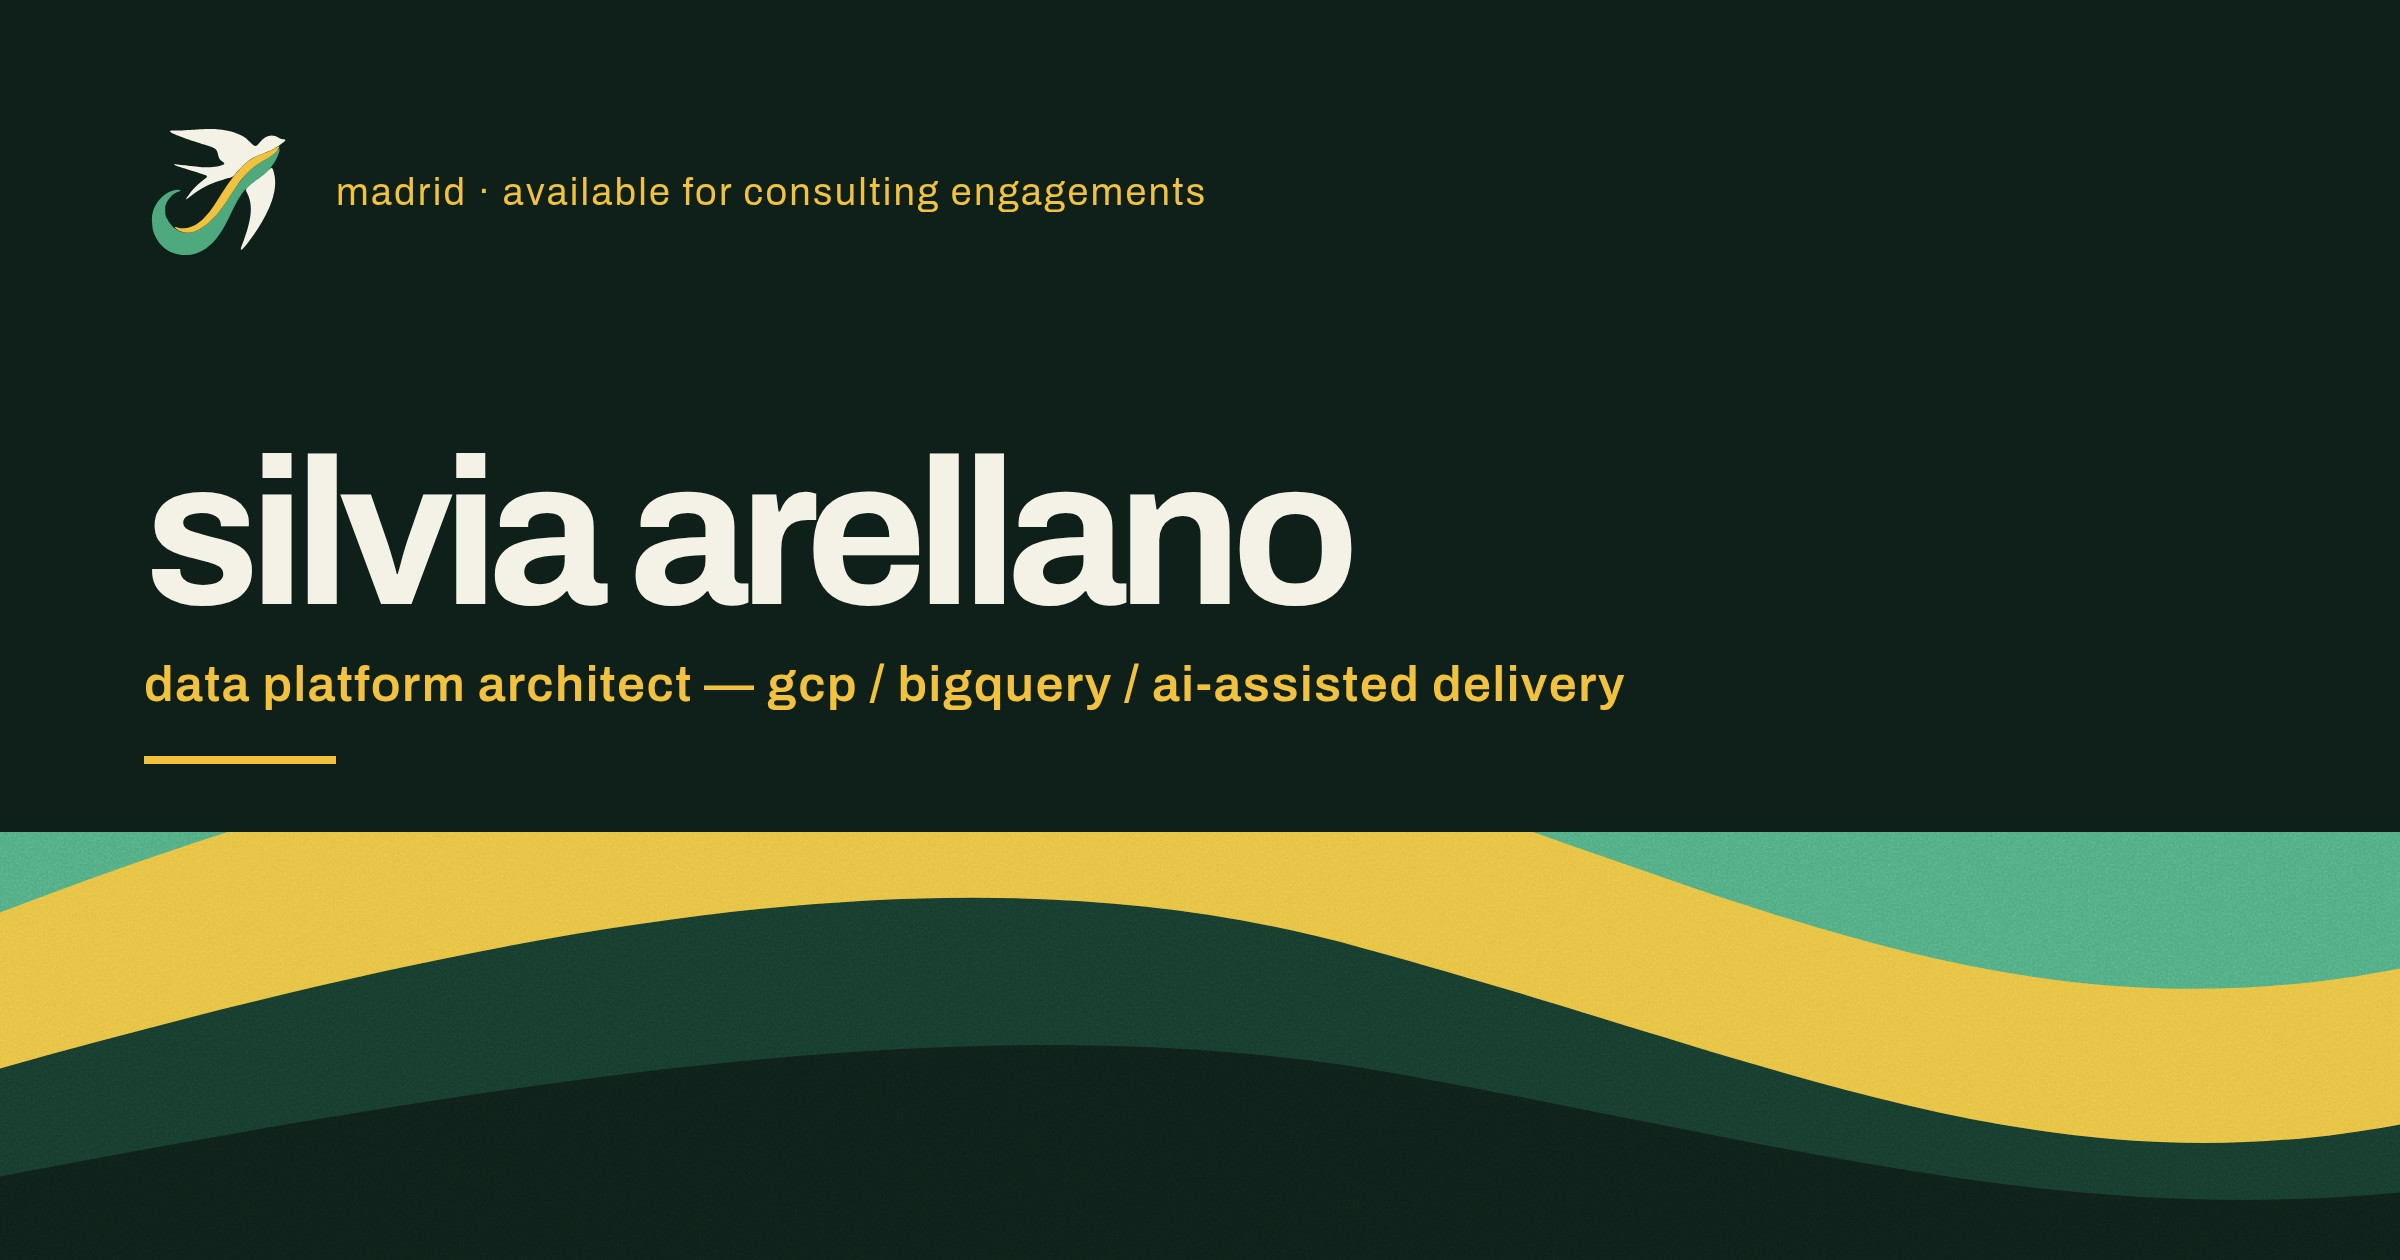
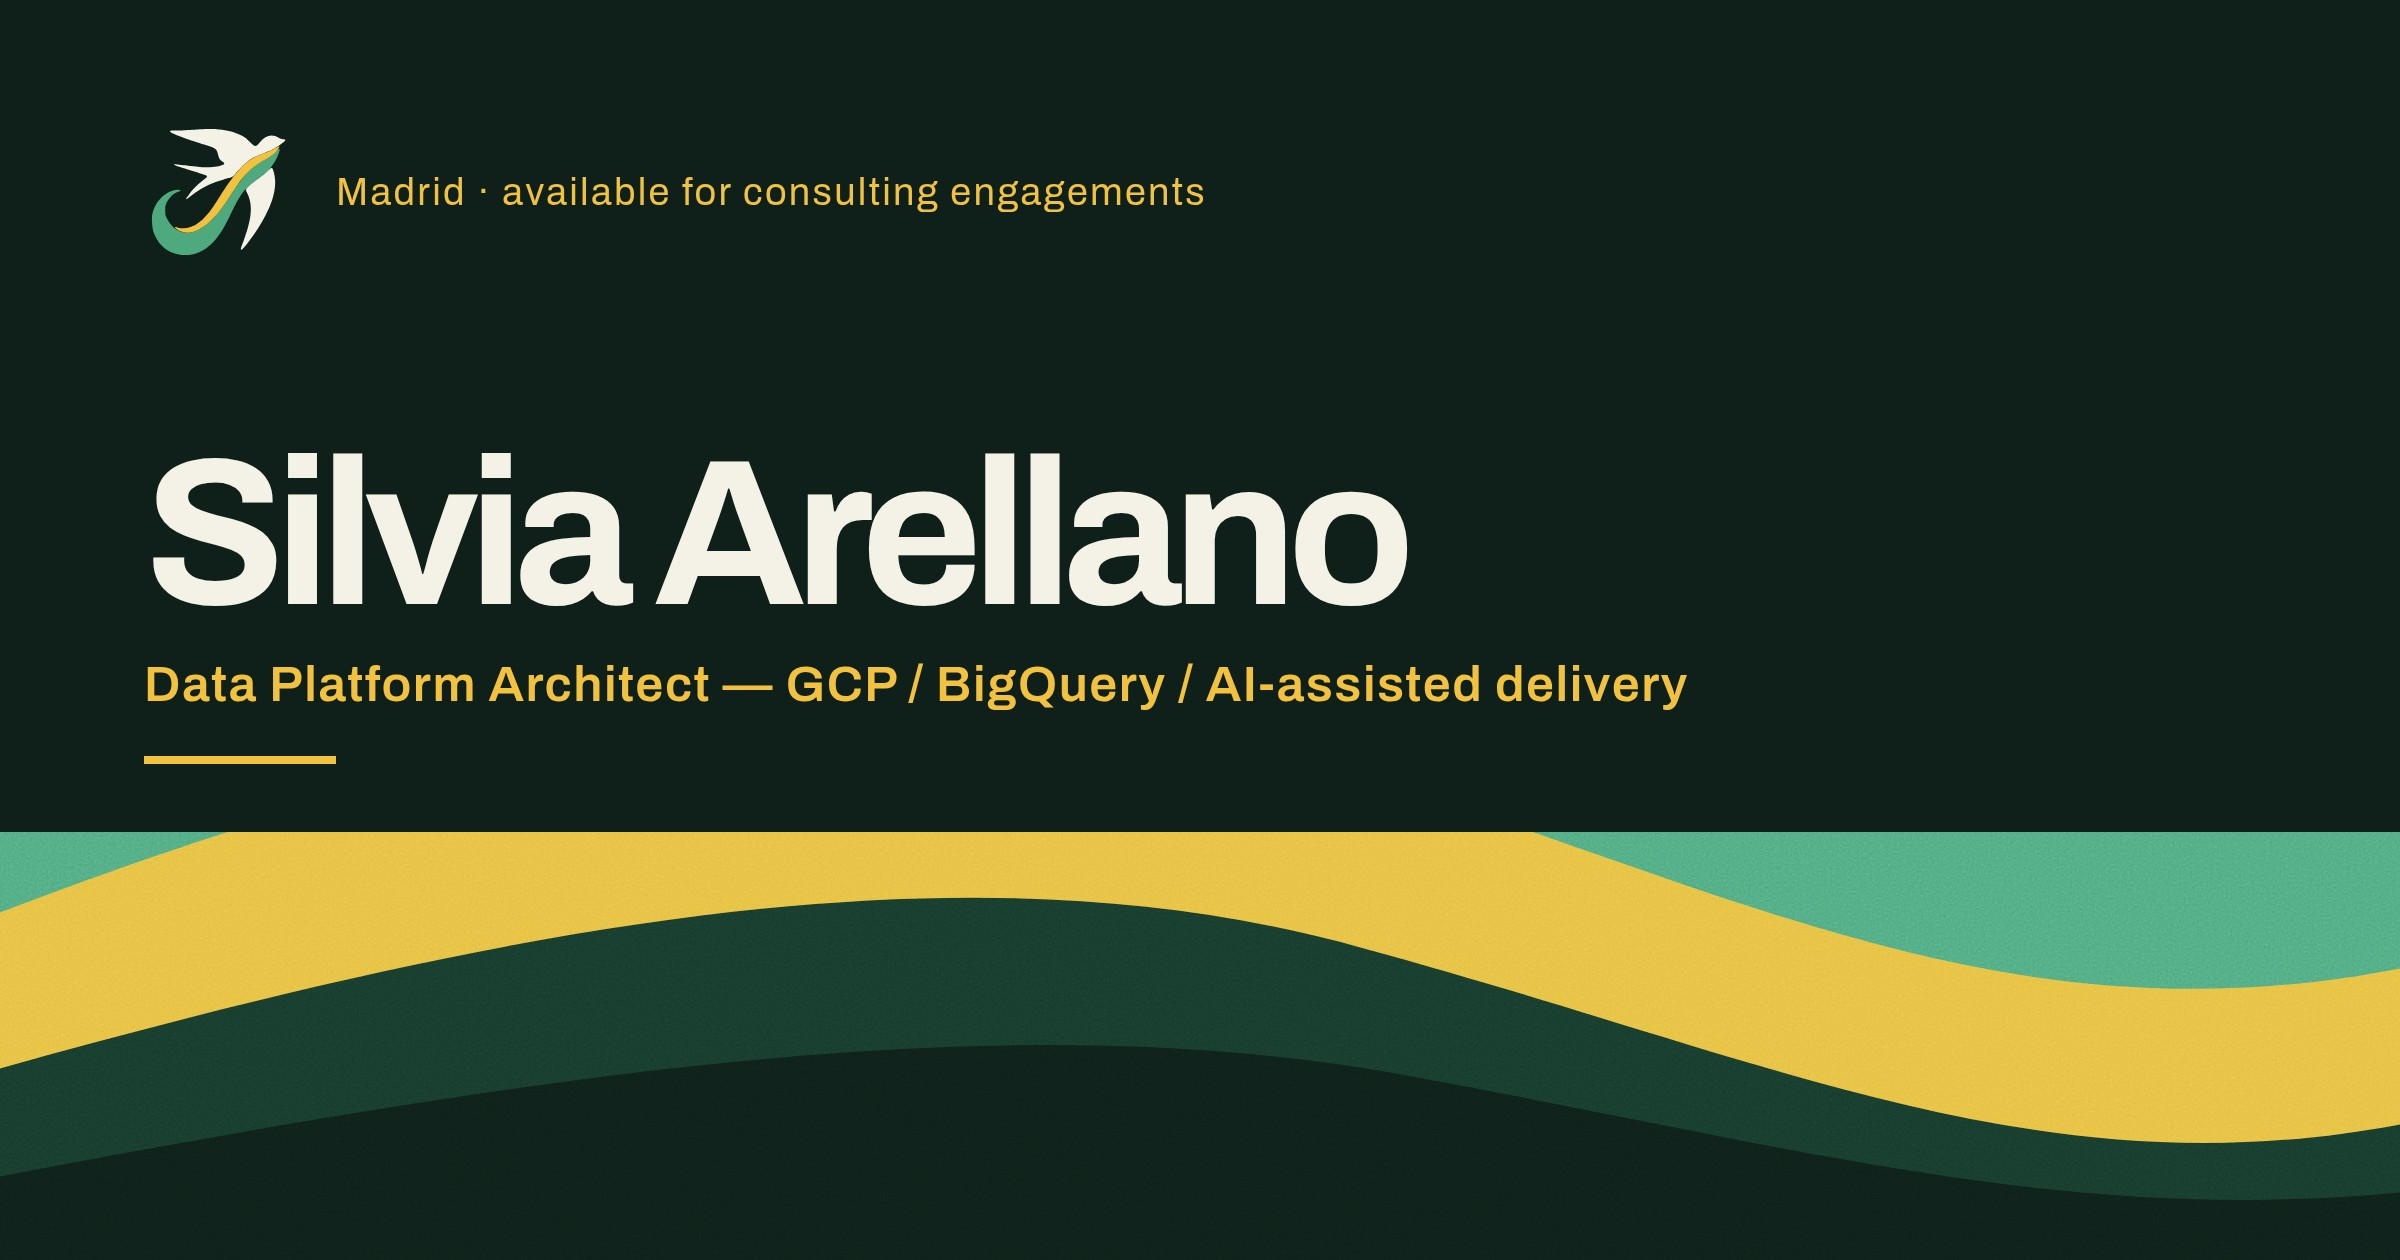
feat(brand): retire the all-lowercase treatment
Silvia retired the lowercase voice rule, so copy now renders in the case it
is authored in: "Silvia Arellano", "Data Platform Architect", "GCP",
"BigQuery", "OBEXDATA OÜ".

- Removed `body { text-transform: lowercase }` and the companion rule that
  handed the transform back to form controls, which the UA stylesheet resets.
- Re-rendered og-image.jpg with the same copy in title case.
- The swallow SVGs' <title> and aria-label now read "Silvia Arellano". Those
  are accessible names, not styled text, so the transform never covered them
  and they were genuinely lowercase in the file.

No source copy was rewritten — the transform was always presentational, so
removing it restores the case the components were already authored in.

Spec change: this reverses a MUST rule, so brand-specification.md is now
v1.1 with a dated amendment under §2 rather than a silent edit of Silvia's
original rule. Three stale spots elsewhere in that document are corrected
too: the §8 :root block still shipped the transform (copying it verbatim
would reintroduce it), the §9 checklist still said "write all copy
lowercase", and the §1/§2 first-person examples were written in the retired
style. §4's separate no-all-caps rule is untouched and still stands.

Verified: computed text-transform is `none` on every element of every route,
lint and build clean, 96/96 resume tests pass.

Claude-Session: https://claude.ai/code/session_01Bwp1k1w87rpA3nuR3tX5Vm

Changed region(s): [[0.0625, 0.3405, 0.5938, 0.4952], [0.0625, 0.5262, 0.7188, 0.5571], [0.125, 0.1238, 0.1562, 0.1548]]

diff --git a/src/assets/css/index.css b/src/assets/css/index.css
@@ -51,26 +51,16 @@
     @apply border-border;
   }
 
-  /* §8, copied verbatim from the specification. The lowercase transform is the
-     brand's voice rule (§2) — source copy keeps its authored case, only the
-     rendering is lowercased. */
+  /* §8, copied verbatim from the specification apart from its
+     text-transform. The brand book's §2 lowercase rule is deliberately not
+     applied: Silvia retired it, so copy renders in the case it is authored in.
+     Do not reintroduce `text-transform: lowercase` here. */
   body {
     background: var(--foam);
     color: var(--abyss);
     font-family: "Archivo", Helvetica, Arial, sans-serif;
     font-size: clamp(1rem, 0.95rem + 0.2vw, 1.0625rem);
     line-height: 1.55;
-    text-transform: lowercase;
-  }
-
-  /* Form controls reset text-transform in the UA stylesheet, so the §2 voice
-     rule has to be handed back to them explicitly. */
-  button,
-  input,
-  optgroup,
-  select,
-  textarea {
-    text-transform: inherit;
   }
 
   /* §4: display sizes carry negative tracking, small caption text carries

diff --git a/docs/brand/brand-specification.md b/docs/brand/brand-specification.md
@@ -1,6 +1,8 @@
 # silvia arellano — brand specification
 
-Version 1.0 · Owner: Silvia Arellano Romero · Last updated 2026-09-07
+Version 1.1 · Owner: Silvia Arellano Romero · Last updated 2026-09-07
+
+*v1.1 — §2 all-lowercase rule retired; see the amendment under Voice.*
 
 > **How to use this file.** Paste it whole into an agent's context before asking it to
 > build any page, slide, README header, or social asset for this brand. Every rule
@@ -22,7 +24,7 @@ against deep green.
 **Positioning line:** Data Platform Architect — data platform architecture,
 GCP/BigQuery, and AI-assisted delivery. Builder of wayworks.
 
-**One-sentence statement:** *i build the machinery underneath other people's businesses.*
+**One-sentence statement:** *I build the machinery underneath other people's businesses.*
 
 **Visual lineage:** the *Berkeley Physics Course, Volume 3: Waves* cover (duotone
 posterized photograph, full bleed, lowercase Helvetica set directly on the image,
@@ -35,12 +37,21 @@ reproduce the artwork.
 
 | Rule | Detail |
 |---|---|
-| Case | **MUST** be lowercase throughout, including headings, buttons, nav, and the wordmark. Set once via `body { text-transform: lowercase; }`. Proper nouns stay lowercase too — `gcp`, `bigquery`, `madrid`. |
-| Person | First person singular. "i build", "i'm brought in for". Never third-person bio voice. |
+| Case | ~~**MUST** be lowercase throughout~~ — **retired 2026-09-07, see amendment below.** Copy renders in the case it is authored in. |
+| Person | First person singular. "I build", "I'm brought in for". Never third-person bio voice. |
 | Register | Plain, declarative, a little dry. Short sentences. |
 | Forbidden | Em-dash asides, "not X but Y" constructions, exclamation marks, "passionate", "leverage", "cutting-edge", "solutions", "empower", "journey". |
 | Numbers | Only real ones. Never invent a year, a headcount, or a client count to fill a shape. |
 | Language | English primary. Spanish is used in life, not on the marketing surface, unless a page is deliberately bilingual. |
+
+> **Amendment — 2026-09-07 (Silvia).** The all-lowercase treatment is retired.
+> Text renders in the case it is authored in: `Silvia Arellano`, `Data Platform
+> Architect`, `GCP`, `BigQuery`, `Madrid`. `body { text-transform: lowercase }`
+> **MUST NOT** be reintroduced.
+>
+> The rest of §2 is unaffected — first person singular, plain and declarative,
+> the forbidden-words list, and real numbers all still stand. So does §4's rule
+> against all-caps: sentence and title case only, never `SHOUTING`.
 
 ---
 
@@ -285,7 +296,7 @@ body{
   font-family:"Archivo",Helvetica,Arial,sans-serif;
   font-size:clamp(1rem,.95rem + .2vw,1.0625rem);
   line-height:1.55;
-  text-transform:lowercase;
+  /* text-transform:lowercase; — retired 2026-09-07, see the §2 amendment */
 }
 ```
 
@@ -314,7 +325,7 @@ print(cr('#0E2019','#4FA97F'))   # abyss on sea — must be >= 4.5
 2. Load Archivo 400/500/600/700. No other font.
 3. Ground the page in `--foam`; make the hero `--abyss` with the §5 wave anchored bottom.
 4. Alternate section grounds `foam → chrome → foam → abyss → foam → sea`.
-5. Write all copy lowercase, first person, per §2.
+5. Write copy in sentence/title case, first person, per §2 and its amendment. Never all-caps (§4).
 6. Check every `--sea` surface uses `--abyss` text.
 7. Add nothing that isn't specified here — no shadows, no gradients, no second font,
    no sixth color, no icons.

diff --git a/docs/features/brand-identity.md b/docs/features/brand-identity.md
@@ -9,7 +9,8 @@ depends_on: []
 acceptance_criteria:
   - Every surface draws its colour from a closed five-token palette of abyss, deep, sea, chrome, and foam.
   - Archivo at weights 400, 500, 600, and 700 is the only typeface on the site.
-  - All visible copy renders lowercase, including headings, navigation, buttons, and proper nouns.
+  - Copy renders in the case it is authored in; no global text transform is applied.
+  - No visible text renders in all-caps, per brand specification §4.
   - Display text carries negative letter tracking and small caption text carries positive letter tracking.
   - The Home page opens on a dark ground with the drawn wave anchored to the bottom edge of the hero.
   - The wave is drawn from stacked bezier bands that alternate chrome, sea, chrome, deep, and abyss from back to front.
@@ -34,10 +35,11 @@ non_goals:
   - Offer a dark-mode theme, a theme toggle, or any visitor-selectable appearance.
   - Introduce a sixth colour, a second typeface, decorative gradients, or drop shadows.
   - Change page structure, section order, routes, or the wording of any existing copy.
+  - Reintroduce `body { text-transform: lowercase }` or any global case transform.
 test_plan:
   - Load every route and verify each visible colour resolves to one of the five palette tokens.
   - Inspect computed styles on headings, body copy, and buttons and verify Archivo is the resolved family on each.
-  - Read every route and verify no visible text renders with an uppercase letter.
+  - Read every route and verify computed `text-transform` is `none` on every element and that no text renders in all-caps.
   - Verify the hero wave sits on the bottom edge, is never flipped or rotated, and keeps its band order.
   - Sample each section of each route and confirm chrome yellow is present at least once.
   - Check every sea-coloured surface and verify its text is abyss.
@@ -52,7 +54,7 @@ The site renders in one closed visual system built on waves — signal, frequenc
 
 ## Behavior
 
-Pages sit on a warm off-white ground with deep-green type. Section grounds alternate between foam, chrome, abyss, and sea, and chrome yellow carries the signal on every one of them. A single typeface, Archivo, does all the work through scale and weight contrast, and all copy renders lowercase through a global text transform rather than by rewriting the source text.
+Pages sit on a warm off-white ground with deep-green type. Section grounds alternate between foam, chrome, abyss, and sea, and chrome yellow carries the signal on every one of them. A single typeface, Archivo, does all the work through scale and weight contrast. Copy renders in the case it is authored in: the brand book's original all-lowercase treatment was retired by Silvia on 2026-09-07, and the amendment is recorded in `docs/brand/brand-specification.md` §2.
 
 The Home page opens on a dark hero: a duotoned portrait behind a drawn wave of stacked bezier bands, spray above the crest, foam flecks along it, and a grain overlay across the whole artwork. The same wave, cropped to its bottom edge, divides sections elsewhere.
 

diff --git a/docs/features/brand-identity.CHANGELOG.md b/docs/features/brand-identity.CHANGELOG.md
@@ -4,6 +4,18 @@ Append-only history of changes to this feature. Newest entries appear first.
 
 ---
 
+## 2026-09-07 — lowercase treatment retired
+
+- **Spec change**: brand specification §2's "Case — MUST be lowercase throughout" is retired at Silvia's direction. Copy now renders in the case it is authored in. Recorded as a dated amendment in `docs/brand/brand-specification.md` rather than by rewriting the original rule.
+- **Removed**: `body { text-transform: lowercase }` and the companion rule that handed the transform back to form controls
+- **Changed**: acceptance criterion "All visible copy renders lowercase" → "Copy renders in the case it is authored in; no global text transform is applied", plus an explicit criterion that nothing renders in all-caps (§4 still stands)
+- **Added**: non-goal — reintroducing a global case transform
+- **Changed**: the swallow SVGs' `<title>` and `aria-label` now read "Silvia Arellano"; these are accessible names, not styled text, so the transform never covered them
+- **Changed**: `og-image.jpg` re-rendered — "Silvia Arellano", "Data Platform Architect — GCP / BigQuery / AI-assisted delivery", "Madrid"
+- **Verified**: computed `text-transform` is `none` on every element of every route
+- **Files touched**: src/assets/css/index.css, public/brand/*.svg, public/favicon.svg, public/og-image.jpg, scripts/brand/generate-og-image.mjs, docs/brand/brand-specification.md
+
+
 ## 2026-09-07 — raster icons and share card
 
 - **Spec change (non-goal amended)**: "Regenerate the raster favicons, touch icons, or the OpenGraph share image" → "Hand-author the raster icons or the share card; both are generated from the mark by committed scripts." Silvia supplied a 1024px raster master, which removed the blocker.

diff --git a/CLAUDE.md b/CLAUDE.md
@@ -15,7 +15,7 @@ Silvia's personal site/portfolio — ventures, open-source work, consultancy, bl
 - Feature spec: `docs/features/brand-identity.md`. Tokens live in `src/assets/css/index.css` and `tailwind.config.js`; the wave is `src/components/BrandWave.jsx`.
 - Palette is **closed**: `abyss #0E2019`, `deep #173A2C`, `sea #4FA97F`, `chrome #F2C13D`, `foam #F4F2E7`. No sixth colour, no second font, no shadows, no decorative gradients.
 - Text on `--sea` MUST be `--abyss`. `--sea` as text on `--foam` measures 2.56 and fails — links on light grounds are `--deep`.
-- Copy is lowercased by `body { text-transform: lowercase }`, never by rewriting source text.
+- **No global case transform.** The brand book's §2 all-lowercase rule was retired 2026-09-07 (see the amendment in `docs/brand/brand-specification.md`). Copy renders in the case it is authored in. Never reintroduce `text-transform: lowercase`. §4's no-all-caps rule still stands.
 - The swallow mark ships in `public/brand/` (primary / dark / mono / mono-foam), extracted from Silvia's logo sheet. Never redraw or alter it. Never place it on `--sea`, never flip or rotate it, never add an outline or containing shape. Use mono below 32px.
 - Icons and the share card are generated from the mark, not hand-made. Regenerate with the scripts noted in `docs/features/brand-identity.md` if the mark ever changes.
 
